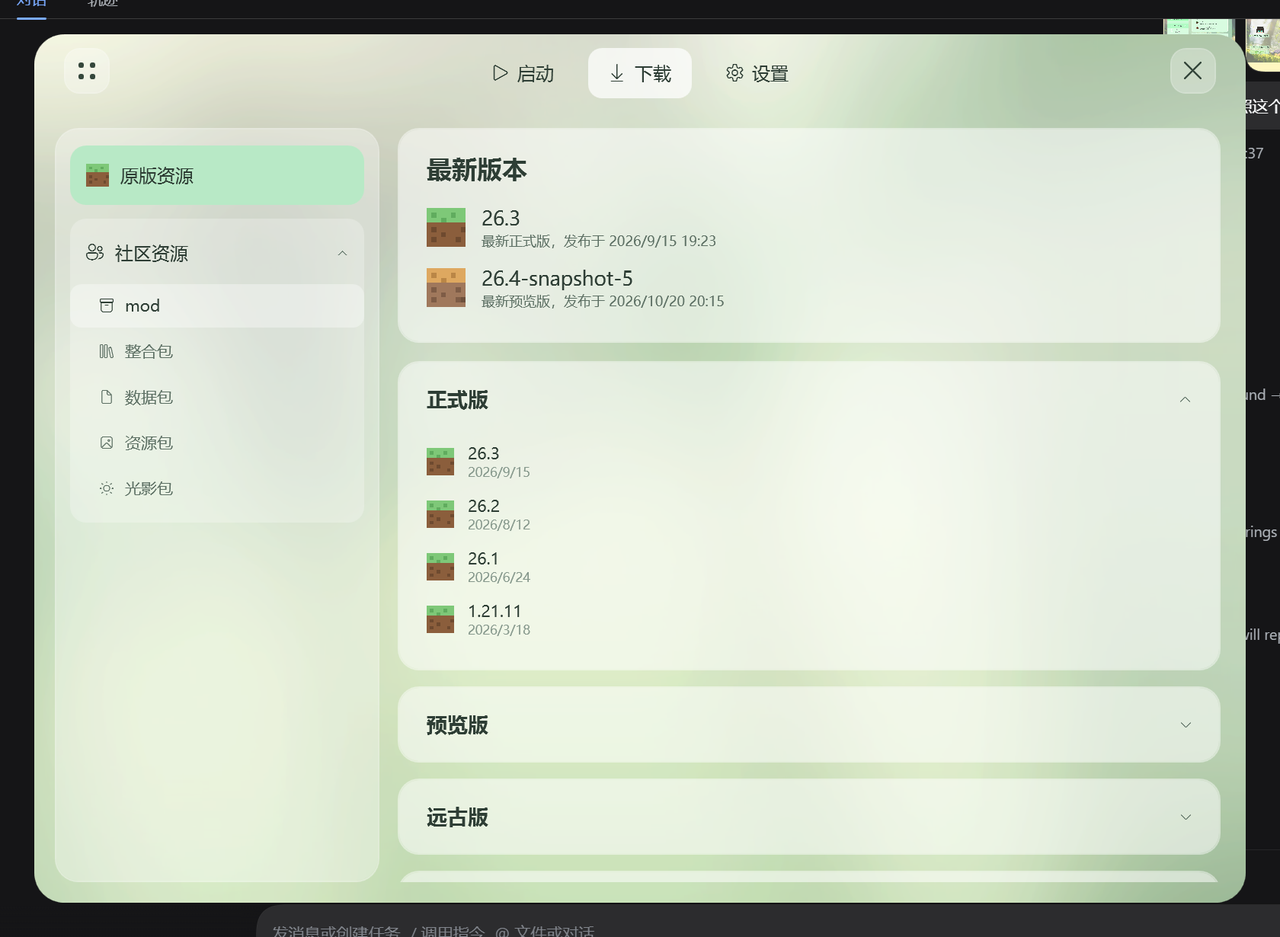
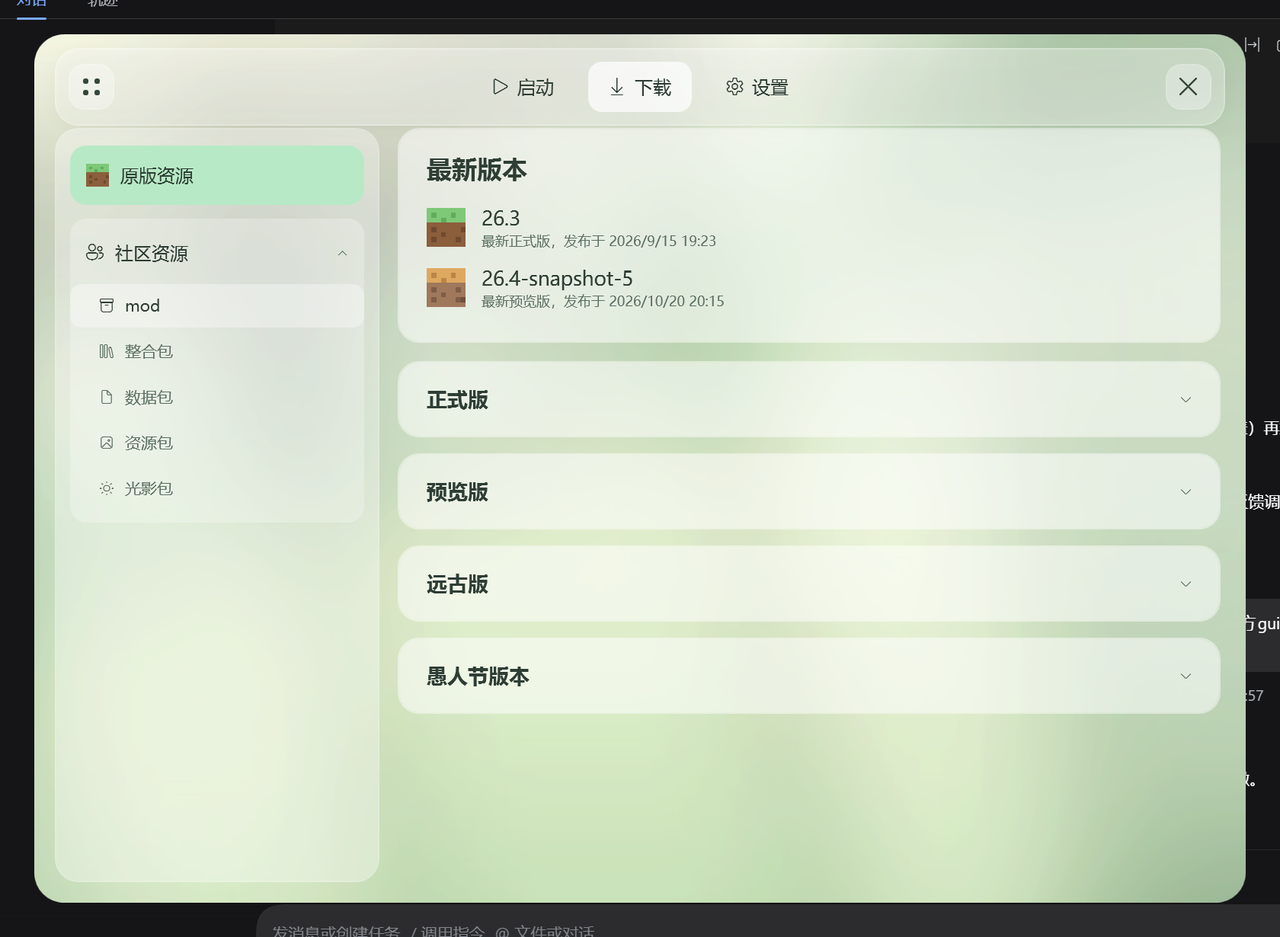
feat: 左上角按钮改为浮出式顶部导航层

diff --git a/src/MutsumiLauncher/Views/MainWindow.xaml b/src/MutsumiLauncher/Views/MainWindow.xaml
@@ -31,62 +31,77 @@
                         <RowDefinition Height="*" />
                     </Grid.RowDefinitions>
 
-                    <!-- 标题栏 -->
-                    <Grid x:Name="TitleBar" Grid.Row="0" Margin="26,12,26,0" Background="Transparent"
-                          MouseLeftButtonDown="TitleBar_MouseLeftButtonDown">
+                    <!-- 顶部导航层：收起时只剩两侧按钮，展开时浮出带三个页签的玻璃条 -->
+                    <Grid x:Name="TitleBar" Grid.Row="0" Margin="18,12,18,0" Height="68"
+                          Background="Transparent" MouseLeftButtonDown="TitleBar_MouseLeftButtonDown">
 
-                        <Button x:Name="MenuButton" Style="{StaticResource IconButton}"
-                                HorizontalAlignment="Left" VerticalAlignment="Top"
-                                Click="MenuButton_Click">
-                            <Grid Width="15" Height="15">
-                                <Grid.RowDefinitions>
-                                    <RowDefinition />
-                                    <RowDefinition />
-                                </Grid.RowDefinitions>
-                                <Grid.ColumnDefinitions>
-                                    <ColumnDefinition />
-                                    <ColumnDefinition />
-                                </Grid.ColumnDefinitions>
-                                <Border Grid.Row="0" Grid.Column="0" Background="#FF35473C"
-                                        CornerRadius="1.5" Margin="0,0,3,3" />
-                                <Border Grid.Row="0" Grid.Column="1" Background="#FF35473C"
-                                        CornerRadius="1.5" Margin="3,0,0,3" />
-                                <Border Grid.Row="1" Grid.Column="0" Background="#FF35473C"
-                                        CornerRadius="1.5" Margin="0,3,3,0" />
-                                <Border Grid.Row="1" Grid.Column="1" Background="#FF35473C"
-                                        CornerRadius="1.5" Margin="3,3,0,0" />
-                            </Grid>
-                        </Button>
+                        <Border x:Name="NavBarSurface" CornerRadius="20"
+                                Background="#52FFFFFF" BorderBrush="#78FFFFFF" BorderThickness="1"
+                                Opacity="0" IsHitTestVisible="False">
+                            <Border.Effect>
+                                <DropShadowEffect BlurRadius="18" ShadowDepth="3" Direction="270"
+                                                  Opacity="0.10" Color="#FF2E4A38" />
+                            </Border.Effect>
+                        </Border>
 
-                        <StackPanel x:Name="NavTabs" Orientation="Horizontal"
-                                    HorizontalAlignment="Center" VerticalAlignment="Top"
-                                    Visibility="Collapsed">
-                            <RadioButton x:Name="NavLaunch" Style="{StaticResource NavTab}"
-                                         GroupName="MainNav" Tag="launch" Checked="Nav_Checked">
-                                <StackPanel Orientation="Horizontal">
-                                    <TextBlock Text="&#xE768;" Style="{StaticResource Glyph}" Margin="0,0,8,0" />
-                                    <TextBlock Text="启动" VerticalAlignment="Center" />
-                                </StackPanel>
-                            </RadioButton>
-                            <RadioButton x:Name="NavDownload" Style="{StaticResource NavTab}"
-                                         GroupName="MainNav" Tag="download" Checked="Nav_Checked">
-                                <StackPanel Orientation="Horizontal">
-                                    <TextBlock Text="&#xE896;" Style="{StaticResource Glyph}" Margin="0,0,8,0" />
-                                    <TextBlock Text="下载" VerticalAlignment="Center" />
-                                </StackPanel>
-                            </RadioButton>
-                            <RadioButton x:Name="NavSettings" Style="{StaticResource NavTab}"
-                                         GroupName="MainNav" Tag="settings" Checked="Nav_Checked">
-                                <StackPanel Orientation="Horizontal">
-                                    <TextBlock Text="&#xE713;" Style="{StaticResource Glyph}" Margin="0,0,8,0" />
-                                    <TextBlock Text="设置" VerticalAlignment="Center" />
-                                </StackPanel>
-                            </RadioButton>
-                        </StackPanel>
+                        <Grid Margin="12,0">
+                            <Button x:Name="MenuButton" Style="{StaticResource IconButton}"
+                                    HorizontalAlignment="Left" VerticalAlignment="Center"
+                                    Click="MenuButton_Click" ToolTip="导航">
+                                <Grid Width="15" Height="15">
+                                    <Grid.RowDefinitions>
+                                        <RowDefinition />
+                                        <RowDefinition />
+                                    </Grid.RowDefinitions>
+                                    <Grid.ColumnDefinitions>
+                                        <ColumnDefinition />
+                                        <ColumnDefinition />
+                                    </Grid.ColumnDefinitions>
+                                    <Border Grid.Row="0" Grid.Column="0" Background="#FF35473C"
+                                            CornerRadius="1.5" Margin="0,0,3,3" />
+                                    <Border Grid.Row="0" Grid.Column="1" Background="#FF35473C"
+                                            CornerRadius="1.5" Margin="3,0,0,3" />
+                                    <Border Grid.Row="1" Grid.Column="0" Background="#FF35473C"
+                                            CornerRadius="1.5" Margin="0,3,3,0" />
+                                    <Border Grid.Row="1" Grid.Column="1" Background="#FF35473C"
+                                            CornerRadius="1.5" Margin="3,3,0,0" />
+                                </Grid>
+                            </Button>
 
-                        <Button x:Name="CloseButton" Style="{StaticResource CloseButton}"
-                                HorizontalAlignment="Right" VerticalAlignment="Top"
-                                Content="&#xE8BB;" Click="CloseButton_Click" />
+                            <StackPanel x:Name="NavTabs" Orientation="Horizontal"
+                                        HorizontalAlignment="Center" VerticalAlignment="Center"
+                                        Opacity="0" IsHitTestVisible="False">
+                                <StackPanel.RenderTransform>
+                                    <TranslateTransform Y="-8" />
+                                </StackPanel.RenderTransform>
+
+                                <RadioButton x:Name="NavLaunch" Style="{StaticResource NavTab}"
+                                             GroupName="MainNav" Tag="launch" Checked="Nav_Checked">
+                                    <StackPanel Orientation="Horizontal">
+                                        <TextBlock Text="&#xE768;" Style="{StaticResource Glyph}" Margin="0,0,8,0" />
+                                        <TextBlock Text="启动" VerticalAlignment="Center" />
+                                    </StackPanel>
+                                </RadioButton>
+                                <RadioButton x:Name="NavDownload" Style="{StaticResource NavTab}"
+                                             GroupName="MainNav" Tag="download" Checked="Nav_Checked">
+                                    <StackPanel Orientation="Horizontal">
+                                        <TextBlock Text="&#xE896;" Style="{StaticResource Glyph}" Margin="0,0,8,0" />
+                                        <TextBlock Text="下载" VerticalAlignment="Center" />
+                                    </StackPanel>
+                                </RadioButton>
+                                <RadioButton x:Name="NavSettings" Style="{StaticResource NavTab}"
+                                             GroupName="MainNav" Tag="settings" Checked="Nav_Checked">
+                                    <StackPanel Orientation="Horizontal">
+                                        <TextBlock Text="&#xE713;" Style="{StaticResource Glyph}" Margin="0,0,8,0" />
+                                        <TextBlock Text="设置" VerticalAlignment="Center" />
+                                    </StackPanel>
+                                </RadioButton>
+                            </StackPanel>
+
+                            <Button x:Name="CloseButton" Style="{StaticResource CloseButton}"
+                                    HorizontalAlignment="Right" VerticalAlignment="Center"
+                                    Content="&#xE8BB;" Click="CloseButton_Click" ToolTip="关闭" />
+                        </Grid>
                     </Grid>
 
                     <!-- 页面宿主 -->
@@ -101,58 +116,5 @@
                 </Border>
             </Grid>
         </Border>
-
-        <!-- 汉堡菜单 -->
-        <Popup x:Name="MenuPopup" PlacementTarget="{Binding ElementName=MenuButton}"
-               Placement="Bottom" StaysOpen="False" AllowsTransparency="True"
-               PopupAnimation="Fade" VerticalOffset="8">
-            <Border Background="#F7FFFFFF" CornerRadius="16" Padding="8" Width="228" Margin="12">
-                <Border.Effect>
-                    <DropShadowEffect BlurRadius="26" ShadowDepth="6" Direction="270"
-                                      Opacity="0.18" Color="#FF1B2B22" />
-                </Border.Effect>
-                <StackPanel>
-                    <Button Style="{StaticResource MenuItemButton}" Tag="launch" Click="MenuNav_Click">
-                        <StackPanel Orientation="Horizontal">
-                            <TextBlock Text="&#xE768;" Style="{StaticResource Glyph}" Margin="0,0,10,0" />
-                            <TextBlock Text="启动" VerticalAlignment="Center" />
-                        </StackPanel>
-                    </Button>
-                    <Button Style="{StaticResource MenuItemButton}" Tag="download" Click="MenuNav_Click">
-                        <StackPanel Orientation="Horizontal">
-                            <TextBlock Text="&#xE896;" Style="{StaticResource Glyph}" Margin="0,0,10,0" />
-                            <TextBlock Text="下载" VerticalAlignment="Center" />
-                        </StackPanel>
-                    </Button>
-                    <Button Style="{StaticResource MenuItemButton}" Tag="settings" Click="MenuNav_Click">
-                        <StackPanel Orientation="Horizontal">
-                            <TextBlock Text="&#xE713;" Style="{StaticResource Glyph}" Margin="0,0,10,0" />
-                            <TextBlock Text="设置" VerticalAlignment="Center" />
-                        </StackPanel>
-                    </Button>
-
-                    <Border Height="1" Background="#22000000" Margin="8,6" />
-
-                    <Button Style="{StaticResource MenuItemButton}" Click="MenuAbout_Click">
-                        <StackPanel Orientation="Horizontal">
-                            <TextBlock Text="&#xE946;" Style="{StaticResource Glyph}" Margin="0,0,10,0" />
-                            <TextBlock Text="关于 MTL" VerticalAlignment="Center" />
-                        </StackPanel>
-                    </Button>
-                    <Button Style="{StaticResource MenuItemButton}" Click="MenuMinimize_Click">
-                        <StackPanel Orientation="Horizontal">
-                            <TextBlock Text="&#xE921;" Style="{StaticResource Glyph}" Margin="0,0,10,0" />
-                            <TextBlock Text="最小化" VerticalAlignment="Center" />
-                        </StackPanel>
-                    </Button>
-                    <Button Style="{StaticResource MenuItemButton}" Click="MenuExit_Click">
-                        <StackPanel Orientation="Horizontal">
-                            <TextBlock Text="&#xE8BB;" Style="{StaticResource Glyph}" Margin="0,0,10,0" />
-                            <TextBlock Text="退出" VerticalAlignment="Center" />
-                        </StackPanel>
-                    </Button>
-                </StackPanel>
-            </Border>
-        </Popup>
     </Grid>
 </Window>

diff --git a/src/MutsumiLauncher/Views/MainWindow.xaml.cs b/src/MutsumiLauncher/Views/MainWindow.xaml.cs
@@ -14,6 +14,8 @@ public partial class MainWindow : Window
     private readonly Dictionary<string, UserControl> _pages = new(StringComparer.Ordinal);
     private readonly DispatcherTimer _toastTimer = new() { Interval = TimeSpan.FromSeconds(2.4) };
     private bool _suppressNav;
+    private bool _navExpanded;
+    private string _currentPage = "launch";
 
     public MainWindow()
     {
@@ -46,6 +48,14 @@ public partial class MainWindow : Window
         SizeChanged += (_, _) => UpdateShellClip();
     }
 
+    protected override void OnPreviewMouseDown(MouseButtonEventArgs e)
+    {
+        base.OnPreviewMouseDown(e);
+
+        // 导航层像弹层一样：启动页上点外部自动收起（子页上保持常驻，同设计稿）
+        if (_navExpanded && _currentPage == "launch" && !TitleBar.IsMouseOver) SetNavExpanded(false);
+    }
+
     private void UpdateShellClip()
     {
         if (Shell.ActualWidth <= 0 || Shell.ActualHeight <= 0) return;
@@ -57,13 +67,16 @@ public partial class MainWindow : Window
     {
         if (!_pages.TryGetValue(key, out var page)) return;
 
+        _currentPage = key;
+
         _suppressNav = true;
         NavLaunch.IsChecked = key == "launch";
         NavDownload.IsChecked = key == "download";
         NavSettings.IsChecked = key == "settings";
         _suppressNav = false;
 
-        NavTabs.Visibility = key == "launch" ? Visibility.Collapsed : Visibility.Visible;
+        // 进子页时导航层自动展开，回启动页时收起
+        SetNavExpanded(key != "launch", animate);
 
         Backdrop.Effect = key == "launch"
             ? null
@@ -86,34 +99,41 @@ public partial class MainWindow : Window
         }
     }
 
+    private void SetNavExpanded(bool expanded, bool animate = true)
+    {
+        _navExpanded = expanded;
+
+        var duration = TimeSpan.FromMilliseconds(200);
+        var ease = new CubicEase { EasingMode = EasingMode.EaseOut };
+        var translate = (TranslateTransform)NavTabs.RenderTransform;
+
+        if (!animate)
+        {
+            NavBarSurface.Opacity = expanded ? 1 : 0;
+            NavTabs.Opacity = expanded ? 1 : 0;
+            NavTabs.IsHitTestVisible = expanded;
+            translate.Y = expanded ? 0 : -8;
+            return;
+        }
+
+        NavBarSurface.BeginAnimation(OpacityProperty,
+            new DoubleAnimation(expanded ? 1 : 0, duration) { EasingFunction = ease });
+        NavTabs.BeginAnimation(OpacityProperty,
+            new DoubleAnimation(expanded ? 1 : 0, duration) { EasingFunction = ease });
+
+        translate.BeginAnimation(TranslateTransform.YProperty,
+            new DoubleAnimation(expanded ? 0 : -8, duration) { EasingFunction = ease });
+
+        NavTabs.IsHitTestVisible = expanded;
+    }
+
     private void Nav_Checked(object sender, RoutedEventArgs e)
     {
         if (_suppressNav || _pages.Count == 0) return;
         if (sender is RadioButton { Tag: string key }) ShowPage(key);
     }
 
-    private void MenuButton_Click(object sender, RoutedEventArgs e) => MenuPopup.IsOpen = !MenuPopup.IsOpen;
-
-    private void MenuNav_Click(object sender, RoutedEventArgs e)
-    {
-        if (sender is not Button { Tag: string key }) return;
-        MenuPopup.IsOpen = false;
-        ShowPage(key);
-    }
-
-    private void MenuAbout_Click(object sender, RoutedEventArgs e)
-    {
-        MenuPopup.IsOpen = false;
-        ShowToast("Mutsumi Launcher 0.1.0 · WPF / .NET 10");
-    }
-
-    private void MenuMinimize_Click(object sender, RoutedEventArgs e)
-    {
-        MenuPopup.IsOpen = false;
-        WindowState = WindowState.Minimized;
-    }
-
-    private void MenuExit_Click(object sender, RoutedEventArgs e) => Close();
+    private void MenuButton_Click(object sender, RoutedEventArgs e) => SetNavExpanded(!_navExpanded);
 
     private void CloseButton_Click(object sender, RoutedEventArgs e) => Close();
 

diff --git a/README.md b/README.md
@@ -57,7 +57,7 @@ MutsumiLauncher/
 - **启动页**：头像、正版标识、用户名（可复制）、版本胶囊、启动按钮；背景为整幅插画。
 - **下载页**：左侧来源列表（原版资源 / 社区资源及其子类），右侧「最新版本」卡片 + 四个可折叠版本分组，切换页面时背景自动高斯模糊。
 - **设置页**：外观、下载源、Java、数据目录占位项。
-- **汉堡菜单**：启动 / 下载 / 设置 / 关于 / 最小化 / 退出；页面切换带淡入动画；底部有轻提示（Toast）。
+- **汉堡菜单**：点击左上角按钮，从顶部浮出玻璃质感的导航层（启动 / 下载 / 设置）；启动页上点击层外自动收起，子页上常驻；页面切换带淡入动画；底部有轻提示（Toast）。
 
 ## 素材替换
 
